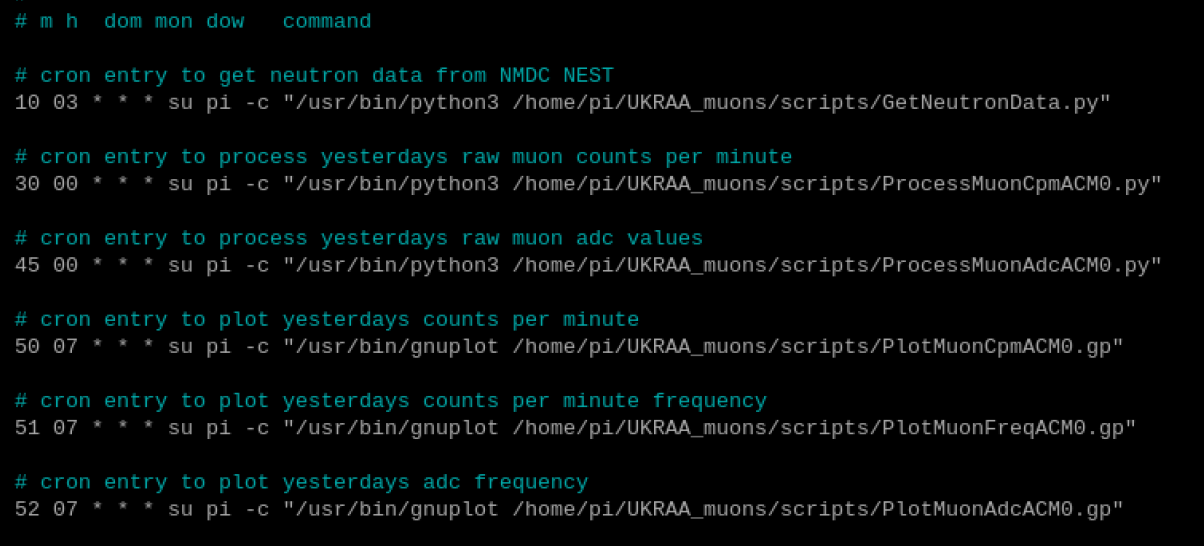
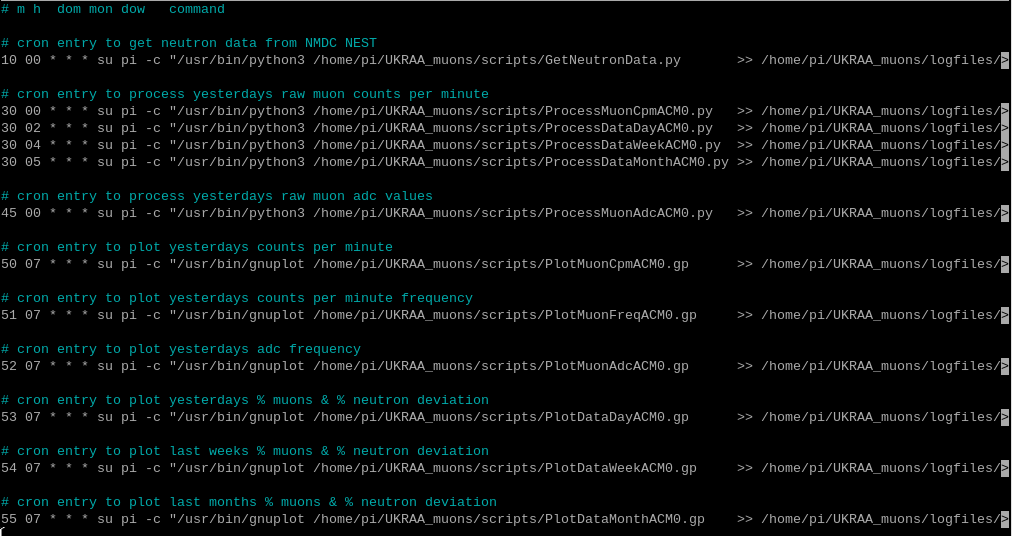
Changed CRON entry to include logfiles

diff --git a/README.md b/README.md
@@ -731,28 +731,34 @@ sudo crontab -e
 # m h  dom mon dow   command
 
 # cron entry to get neutron data from NMDC NEST
-10 03 * * * su pi -c "/usr/bin/python3 /home/pi/UKRAA_muons/scripts/GetNeutronData.py"
+10 00 * * * su pi -c "/usr/bin/python3 /home/pi/UKRAA_muons/scripts/GetNeutronData.py       >> /home/pi/UKRAA_muons/logfiles/>
 
-# cron entry to process yesterdays raw muon counts per minute 
-30 00 * * * su pi -c "/usr/bin/python3 /home/pi/UKRAA_muons/scripts/ProcessMuonCpm.py"
+# cron entry to process yesterdays raw muon counts per minute
+30 00 * * * su pi -c "/usr/bin/python3 /home/pi/UKRAA_muons/scripts/ProcessMuonCpmACM0.py   >> /home/pi/UKRAA_muons/logfiles/>
+30 02 * * * su pi -c "/usr/bin/python3 /home/pi/UKRAA_muons/scripts/ProcessDataDayACM0.py   >> /home/pi/UKRAA_muons/logfiles/>
+30 04 * * * su pi -c "/usr/bin/python3 /home/pi/UKRAA_muons/scripts/ProcessDataWeekACM0.py  >> /home/pi/UKRAA_muons/logfiles/>
+30 05 * * * su pi -c "/usr/bin/python3 /home/pi/UKRAA_muons/scripts/ProcessDataMonthACM0.py >> /home/pi/UKRAA_muons/logfiles/>
 
-# cron entry to process yesterdays raw muon adc values 
-45 00 * * * su pi -c "/usr/bin/python3 /home/pi/UKRAA_muons/scripts/ProcessMuonAdcm.py"
+# cron entry to process yesterdays raw muon adc values
+45 00 * * * su pi -c "/usr/bin/python3 /home/pi/UKRAA_muons/scripts/ProcessMuonAdcACM0.py   >> /home/pi/UKRAA_muons/logfiles/>
 
-# cron entry to plot yesterdays counts per minute 
-50 07 * * * su pi -c "/usr/bin/gnuplot /home/pi/UKRAA_muons/scripts/PlotMuonCpmACM0.gp"
+# cron entry to plot yesterdays counts per minute
+50 07 * * * su pi -c "/usr/bin/gnuplot /home/pi/UKRAA_muons/scripts/PlotMuonCpmACM0.gp      >> /home/pi/UKRAA_muons/logfiles/>
 
-# cron entry to plot yesterdays counts per minute frequency 
-51 07 * * * su pi -c "/usr/bin/gnuplot /home/pi/UKRAA_muons/scripts/PlotMuonFreqACM0.gp"
+# cron entry to plot yesterdays counts per minute frequency
+51 07 * * * su pi -c "/usr/bin/gnuplot /home/pi/UKRAA_muons/scripts/PlotMuonFreqACM0.gp     >> /home/pi/UKRAA_muons/logfiles/>
 
-# cron entry to plot yesterdays adc frequency 
-52 07 * * * su pi -c "/usr/bin/gnuplot /home/pi/UKRAA_muons/scripts/PlotMuonAdcACM0.gp"
+# cron entry to plot yesterdays adc frequency
+52 07 * * * su pi -c "/usr/bin/gnuplot /home/pi/UKRAA_muons/scripts/PlotMuonAdcACM0.gp      >> /home/pi/UKRAA_muons/logfiles/>
 
-# cron entry to plot the last weeks muons counts per minute 
-53 07 * * * su pi -c "/usr/bin/gnuplot /home/pi/UKRAA_muons/scripts/PlotMuonCpmACM0_week.gp"
+# cron entry to plot yesterdays % muons & % neutron deviation
+53 07 * * * su pi -c "/usr/bin/gnuplot /home/pi/UKRAA_muons/scripts/PlotDataDayACM0.gp      >> /home/pi/UKRAA_muons/logfiles/>
 
-# cron entry to plot the last months muons counts per minute
-54 07 * * * su pi -c "/usr/bin/gnuplot /home/pi/UKRAA_muons/scripts/PlotMuonCpmACM0_month.gp"
+# cron entry to plot last weeks % muons & % neutron deviation
+54 07 * * * su pi -c "/usr/bin/gnuplot /home/pi/UKRAA_muons/scripts/PlotDataWeekACM0.gp     >> /home/pi/UKRAA_muons/logfiles/>
+
+# cron entry to plot last months % muons & % neutron deviation
+55 07 * * * su pi -c "/usr/bin/gnuplot /home/pi/UKRAA_muons/scripts/PlotDataMonthACM0.gp    >> /home/pi/UKRAA_muons/logfiles/>
 ```
 
 ![img_51](images/RPi_imager_51.PNG)
@@ -795,12 +801,16 @@ Once you have completed building your RPi web server, we need to move some files
 ```
 └── 📁WWW
     └── 📁images
-        └── AndrewBanner.jpg
-        └── Cosmic_muons.jpg
+        └── default-monthly.png
+        └── default-weekly.png
+        └── default.png
         └── favicon.ico
         └── PicoMuon_1.png
         └── PicoMuon_2.png
         └── PicoMuon_3.png
+        └── SunHeader.png
+        └── UKRAA_logo_black.png
+        └── UKRAA_logo_white.png
     └── 📁temp
         └── ACM0_B-Adc.png
         └── ACM0_B-Cpm.png
@@ -808,9 +818,11 @@ Once you have completed building your RPi web server, we need to move some files
         └── ACM0_C-Adc.png
         └── ACM0_C-Cpm.png
         └── ACM0_C-Freq.png
+        └── ACM0_day_plot.png
         └── ACM0_T-Adc.png
         └── ACM0_T-Cpm.png
         └── ACM0_T-Freq.png
+        └── ACM0_week_plot.png
     └── index.html
 ```
 
